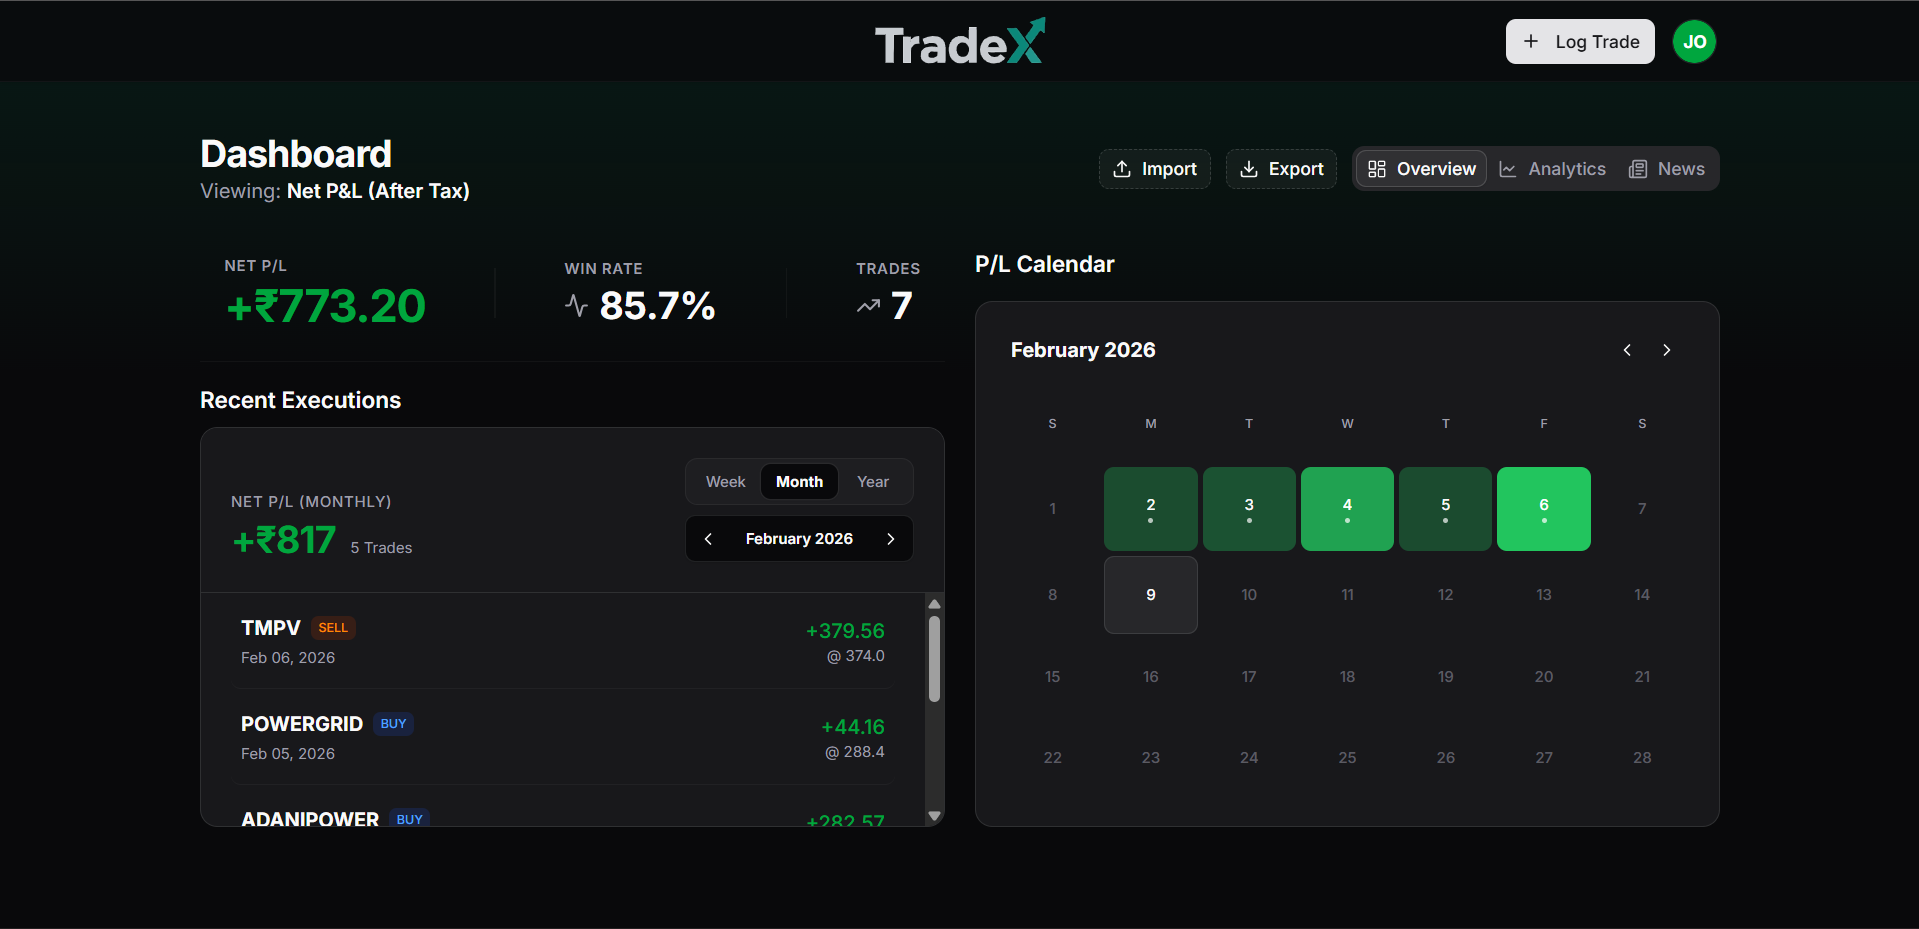
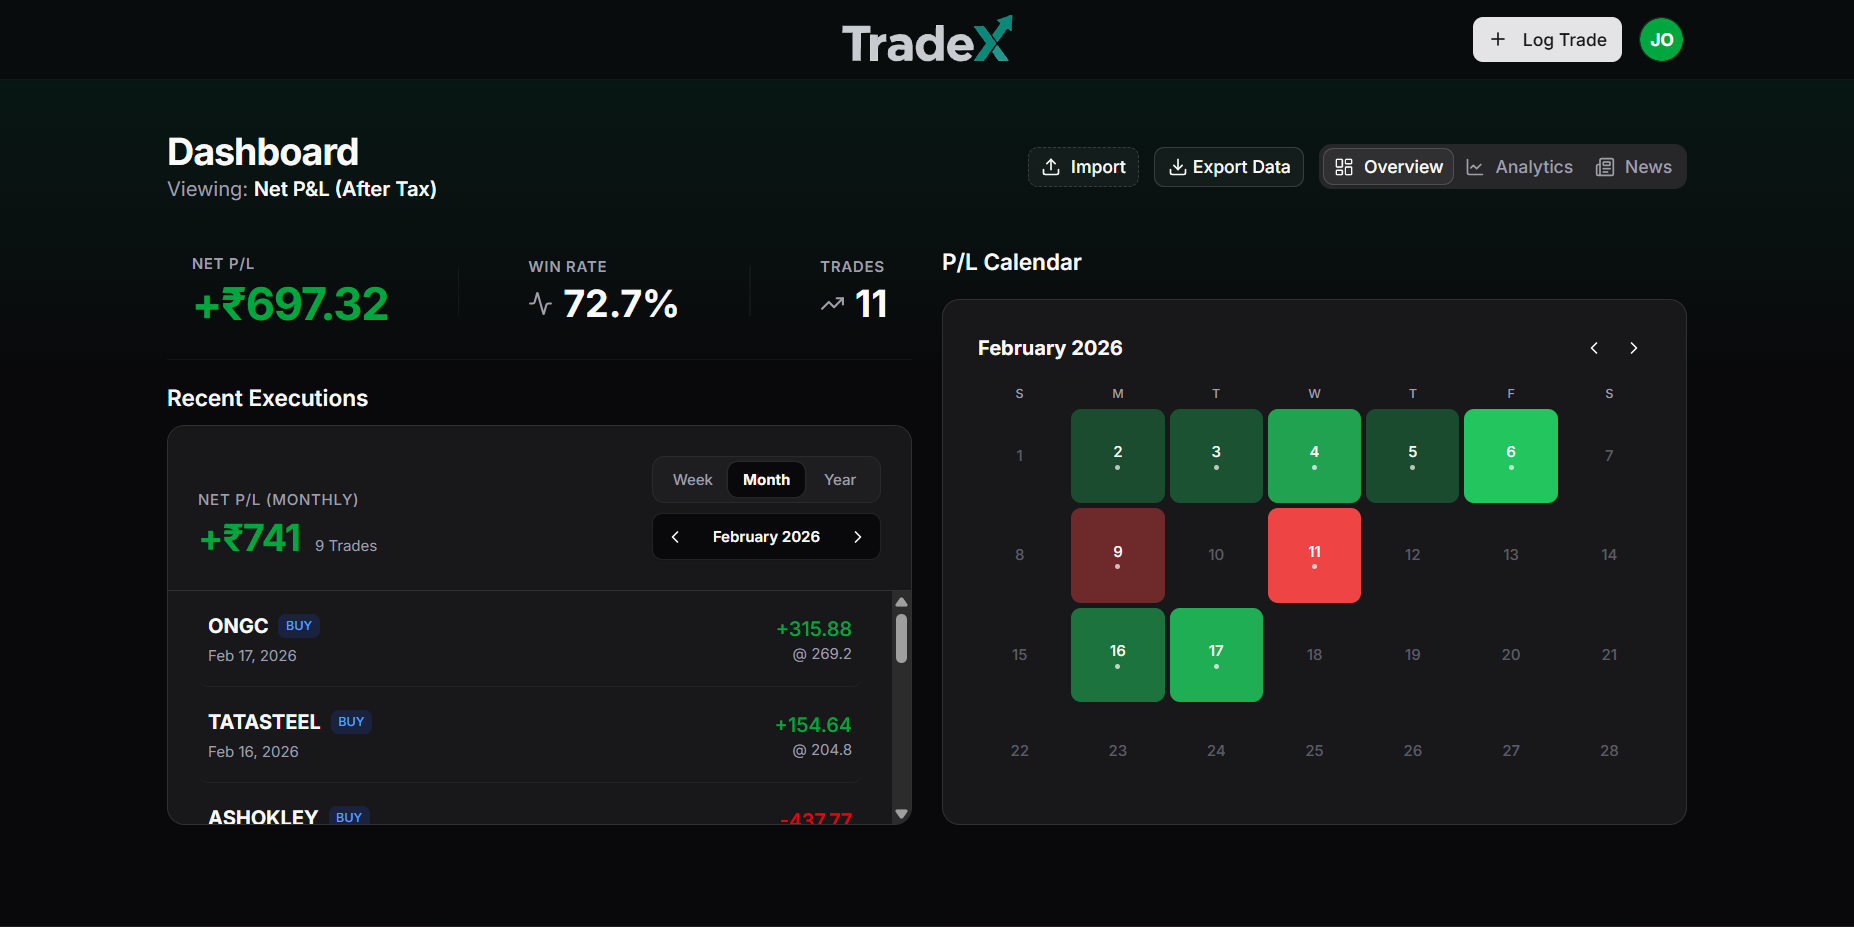
Added images to projects

diff --git a/src/components/Projects.jsx b/src/components/Projects.jsx
@@ -1,12 +1,20 @@
-import React from 'react';
-import { motion } from 'framer-motion';
+import React, { useState, useEffect } from 'react';
+import { motion, AnimatePresence, wrap } from 'framer-motion';
 
 // IMPORT YOUR IMAGES
 import project1 from '../assets/payzo-project.png';
-import project2 from '../assets/nexusgloabal-project.png';
-import project3 from '../assets/onepoint-project.png';
-import project4 from '../assets/sandbox-project.png';
-import project5 from '../assets/TradeX-project.png';
+import nexusgloabal from '../assets/nexusgloabal-project.png';
+import nexusgloabal01 from '../assets/nexusgloabal-project01.png';
+import nexusgloabal02 from '../assets/nexusgloabal-project02.png';
+import onepoint from '../assets/onepoint-project.png';
+import onepoint01 from '../assets/onepoint-project01.png';
+import onepoint02 from '../assets/onepoint-project02.png';
+import sandbox from '../assets/sandbox-project.png';
+import sandbox01 from '../assets/sandbox-project01.png';
+import sandbox02 from '../assets/sandbox-project02.png';
+import tradex from '../assets/TradeX-project.png';
+import tradex01 from '../assets/TradeX-project01.png';
+import tradex02 from '../assets/TradeX-project02.png';
 
 const projects = [
     {
@@ -15,7 +23,7 @@ const projects = [
         category: "HRMS Platform",
         description: "A comprehensive Human Resource Management System built for Interland. Features include payroll processing, attendance tracking, and employee self-service portals.",
         tech: ["Java Spring Boot", "Angular", "PostgreSQL"],
-        image: project1,
+        images: [project1],
         link: "https://payzohr.com/landing"
     },
     {
@@ -24,7 +32,7 @@ const projects = [
         category: "Corporate Site",
         description: "A high-performance corporate website designed to establish brand authority. Built with optimization and SEO at the forefront.",
         tech: ["React", "Tailwind CSS", "Lovable.ai"],
-        image: project2,
+        images: [nexusgloabal, nexusgloabal01, nexusgloabal02],
         link: "https://nexusglobal.sa/"
     },
     {
@@ -33,7 +41,7 @@ const projects = [
         category: "E-Commerce",
         description: "A full-featured shopping platform. Includes cart management, payment gateway integration, and a custom admin dashboard.",
         tech: ["React", "Node.js", "PostgreSQL"],
-        image: project3,
+        images: [onepoint, onepoint01, onepoint02],
         link: "https://onepointstore.vercel.app/login"
     },
     {
@@ -42,7 +50,7 @@ const projects = [
         category: "Development Sandbox",
         description: "An online portal for developers to test API integrations and sandboxed environments for safe experimentation.",
         tech: ["Angular", "Springboot", "PostgreSQL"],
-        image: project4,
+        images: [sandbox, sandbox01, sandbox02],
         link: "http://81.208.162.99/sandbox/developerPortal"
     },
     {
@@ -51,39 +59,167 @@ const projects = [
         category: "Trading Journal",
         description: "A personal trading journal application that allows traders to log their trades, analyze performance, and track progress over time.",
         tech: ["React", "Next.js", "PostgreSQL"],
-        image: project5,
+        images: [tradex, tradex01, tradex02],
         link: "https://trade-x-trade.vercel.app/login"
     }
 ];
 
+// --- VARIANTS FOR SLIDE ANIMATION ---
+const variants = {
+    enter: (direction) => ({
+        x: direction > 0 ? 1000 : -1000,
+        opacity: 0
+    }),
+    center: {
+        zIndex: 1,
+        x: 0,
+        opacity: 1
+    },
+    exit: (direction) => ({
+        zIndex: 0,
+        x: direction < 0 ? 1000 : -1000,
+        opacity: 0
+    })
+};
+
+const swipeConfidenceThreshold = 10000;
+const swipePower = (offset, velocity) => {
+    return Math.abs(offset) * velocity;
+};
+
 const LaptopFrame = ({ children }) => (
     <div className="group relative">
-        {/* LAPTOP LID (The Screen Bezel) */}
-        {/* We use fit-content so it wraps perfectly around your specific aspect ratio */}
+        {/* LAPTOP LID */}
         <div className="relative mx-auto bg-gray-900 rounded-t-xl border-[4px] border-gray-800 shadow-2xl overflow-hidden">
-
-            {/* Webcam Dot */}
             <div className="absolute top-2 left-1/2 -translate-x-1/2 w-1.5 h-1.5 bg-gray-800 rounded-full z-20 pointer-events-none"></div>
-
-            {/* The Screen Content (Your Image) */}
             <div className="bg-black rounded-lg overflow-hidden relative">
                 {children}
             </div>
         </div>
-
-        {/* LAPTOP BASE (Keyboard Area) */}
+        {/* LAPTOP BASE */}
         <div className="relative mx-auto bg-gray-900 h-4 md:h-5 rounded-b-xl shadow-[0_10px_20px_rgba(0,0,0,0.5)] z-10 w-[102%] -ml-[1%] flex items-center justify-center">
-            {/* Trackpad notch */}
             <div className="w-16 md:w-24 h-1 bg-gray-800 rounded-full opacity-50"></div>
         </div>
     </div>
 );
 
+// --- CAROUSEL COMPONENT ---
+const ProjectCard = ({ project }) => {
+    const [[page, direction], setPage] = useState([0, 0]);
+
+    // We wrap the index so it loops infinitely
+    const imageIndex = wrap(0, project.images.length, page);
+
+    const paginate = (newDirection) => {
+        setPage([page + newDirection, newDirection]);
+    };
+
+    // AUTO-PLAY LOGIC
+    useEffect(() => {
+        const timer = setInterval(() => {
+            paginate(1);
+        }, 5000); // UPDATED: Increased to 5000ms (5 seconds) for slower pace
+
+        return () => clearInterval(timer);
+    }, [page]);
+
+    return (
+        <motion.a
+            href={project.link}
+            target="_blank"
+            rel="noopener noreferrer"
+            initial={{ opacity: 0, y: 20 }}
+            whileInView={{ opacity: 1, y: 0 }}
+            viewport={{ once: true }}
+            transition={{ duration: 0.6 }}
+            className="group cursor-pointer block"
+        >
+            <LaptopFrame>
+                <div className="relative aspect-[1897/926] w-full bg-neutral-900 overflow-hidden touch-pan-y">
+
+                    {/* CAROUSEL IMAGES */}
+                    <AnimatePresence initial={false} custom={direction}>
+                        <motion.img
+                            key={page}
+                            src={project.images[imageIndex].src}
+                            alt={project.title}
+                            custom={direction}
+                            variants={variants}
+                            initial="enter"
+                            animate="center"
+                            exit="exit"
+                            // UPDATED TRANSITION SETTINGS
+                            transition={{
+                                x: { type: "spring", stiffness: 150, damping: 25 }, // Lower stiffness = Slower movement
+                                opacity: { duration: 0.5 } // Longer fade duration
+                            }}
+                            className="absolute inset-0 h-full w-full object-cover"
+                            draggable="false"
+
+                            // SWIPE LOGIC
+                            drag="x"
+                            dragConstraints={{ left: 0, right: 0 }}
+                            dragElastic={1}
+                            onDragEnd={(e, { offset, velocity }) => {
+                                const swipe = swipePower(offset.x, velocity.x);
+
+                                if (swipe < -swipeConfidenceThreshold) {
+                                    paginate(1);
+                                } else if (swipe > swipeConfidenceThreshold) {
+                                    paginate(-1);
+                                }
+                            }}
+                            onClick={(e) => e.stopPropagation()}
+                        />
+                    </AnimatePresence>
+
+                    {/* OVERLAYS */}
+                    <div className="absolute inset-0 bg-gradient-to-tr from-white/5 to-transparent opacity-0 group-hover:opacity-100 transition-opacity duration-500 pointer-events-none z-10" />
+
+                    {/* PAGINATION DOTS */}
+                    <div className="absolute bottom-3 left-0 right-0 flex justify-center gap-2 z-20">
+                        {project.images.map((_, idx) => (
+                            <div
+                                key={idx}
+                                className={`w-1.5 h-1.5 rounded-full transition-all shadow-sm ${idx === imageIndex ? 'bg-gold w-3' : 'bg-white/50'}`}
+                            />
+                        ))}
+                    </div>
+
+                </div>
+            </LaptopFrame>
+
+            {/* TEXT CONTENT */}
+            <div className="flex flex-col gap-3 mt-8 px-2">
+                <div className="flex justify-between items-start">
+                    <h3 className="text-xl md:text-2xl text-white font-serif group-hover:text-gold transition-colors duration-300">
+                        {project.title}
+                    </h3>
+                    <span className="text-[10px] md:text-xs font-mono text-gray-500 uppercase tracking-wider border border-white/10 px-2 py-1 rounded-sm">
+                        {project.category}
+                    </span>
+                </div>
+
+                <p className="text-gray-400 text-sm leading-relaxed line-clamp-2">
+                    {project.description}
+                </p>
+
+                <div className="flex flex-wrap gap-2 mt-2">
+                    {project.tech.map((t, i) => (
+                        <span key={i} className="text-[10px] text-white/40 font-mono uppercase">
+                            {t} {i !== project.tech.length - 1 && "•"}
+                        </span>
+                    ))}
+                </div>
+            </div>
+        </motion.a>
+    );
+};
+
 const Projects = () => {
     return (
         <section id="work" className="py-20 md:py-32 px-6 md:px-20 bg-midnight relative z-10">
             <div className="max-w-7xl mx-auto">
-
                 {/* SECTION HEADER */}
                 <div className="mb-16 md:mb-20 flex flex-col md:flex-row md:items-end justify-between gap-6 border-b border-white/10 pb-8">
                     <div>
@@ -98,72 +234,12 @@ const Projects = () => {
                     </p>
                 </div>
 
-                {/* THE GRID */}
+                {/* PROJECT GRID */}
                 <div className="grid grid-cols-1 md:grid-cols-2 gap-x-16 gap-y-20 md:gap-y-24">
                     {projects.map((project) => (
-                        <motion.a
-                            href={project.link}
-                            target="_blank"
-                            rel="noopener noreferrer"
-                            key={project.id}
-                            initial={{ opacity: 0, y: 20 }}
-                            whileInView={{ opacity: 1, y: 0 }}
-                            viewport={{ once: true }}
-                            transition={{ duration: 0.6 }}
-                            className="group cursor-pointer block"
-                        >
-                            {/* --- THE LAPTOP MOCKUP --- */}
-                            <LaptopFrame>
-                                {/* THE SCREEN CONTENT */}
-                                <div className="relative aspect-[1897/926] w-full bg-neutral-900 group-hover:brightness-110 transition-all duration-500">
-                                    <img
-                                        src={project.image.src}
-                                        alt={project.title}
-                                        className="h-full w-full object-cover" // object-cover here ensures no black bars, fitting the custom ratio perfectly
-                                    />
-
-                                    {/* Screen Glare/Reflection Effect */}
-                                    <div className="absolute inset-0 bg-gradient-to-tr from-white/5 to-transparent opacity-0 group-hover:opacity-100 transition-opacity duration-500 pointer-events-none" />
-
-                                    {/* Hover Overlay with Icon */}
-                                    <div className="absolute inset-0 bg-black/40 opacity-0 group-hover:opacity-100 transition-all duration-300 flex items-center justify-center">
-                                        <div className="bg-white/10 backdrop-blur-md p-4 rounded-full border border-white/20 transform scale-75 group-hover:scale-100 transition-transform duration-300">
-                                            <svg xmlns="http://www.w3.org/2000/svg" fill="none" viewBox="0 0 24 24" strokeWidth={2} stroke="white" className="w-6 h-6">
-                                                <path strokeLinecap="round" strokeLinejoin="round" d="M13.5 6H5.25A2.25 2.25 0 003 8.25v10.5A2.25 2.25 0 005.25 21h10.5A2.25 2.25 0 0018 18.75V10.5m-10.5 6L21 3m0 0h-5.25M21 3v5.25" />
-                                            </svg>
-                                        </div>
-                                    </div>
-                                </div>
-                            </LaptopFrame>
-
-                            {/* TEXT CONTENT (Below Laptop) */}
-                            <div className="flex flex-col gap-3 mt-8 px-2">
-                                <div className="flex justify-between items-start">
-                                    <h3 className="text-xl md:text-2xl text-white font-serif group-hover:text-gold transition-colors duration-300">
-                                        {project.title}
-                                    </h3>
-                                    <span className="text-[10px] md:text-xs font-mono text-gray-500 uppercase tracking-wider border border-white/10 px-2 py-1 rounded-sm">
-                                        {project.category}
-                                    </span>
-                                </div>
-
-                                <p className="text-gray-400 text-sm leading-relaxed line-clamp-2">
-                                    {project.description}
-                                </p>
-
-                                <div className="flex flex-wrap gap-2 mt-2">
-                                    {project.tech.map((t, i) => (
-                                        <span key={i} className="text-[10px] text-white/40 font-mono uppercase">
-                                            {t} {i !== project.tech.length - 1 && "•"}
-                                        </span>
-                                    ))}
-                                </div>
-                            </div>
-
-                        </motion.a>
+                        <ProjectCard key={project.id} project={project} />
                     ))}
                 </div>
-
             </div>
         </section>
     );
